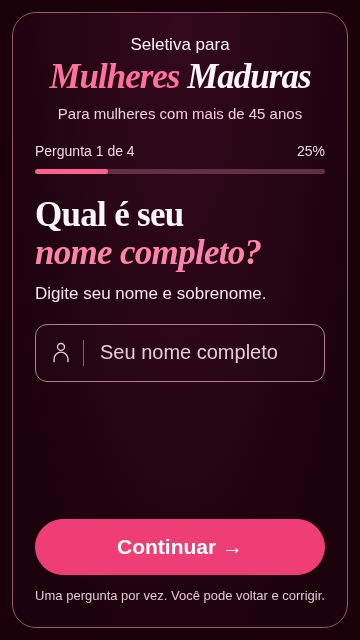
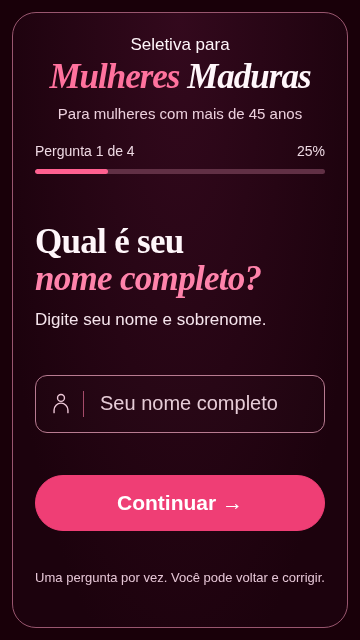
Publicar distribuição equilibrada da versão em tela única
Usuário solicitou link atualizado para testar. Preserva a página principal.

diff --git a/tela-unica/index.html b/tela-unica/index.html
@@ -1,7 +1,8 @@
 <!DOCTYPE html>
 <html lang="pt-BR"><head><meta charset="UTF-8"><meta name="viewport" content="width=device-width,initial-scale=1"><meta name="description" content="Seletiva presencial em Piracicaba para mulheres acima de 45 anos que sonham em ser modelos. Inscreva-se respondendo a 4 perguntas simples."><title>Inscrição em tela única | Seletiva de mulheres maduras</title>
 <style>
-*{box-sizing:border-box}html{height:100%;overflow:hidden}body{position:fixed;inset:0;margin:0;overflow:hidden;background:#190009;color:#fff6fa;font:18px/1.4 Arial,sans-serif}main{height:100vh;height:100svh;height:var(--app-height,100svh);padding:12px;padding-top:max(12px,env(safe-area-inset-top));padding-bottom:max(12px,env(safe-area-inset-bottom));display:flex;justify-content:center;overflow:hidden}.quiz-shell{display:flex;flex-direction:column;width:100%;max-width:480px;min-height:0;height:100%;padding:22px;background:radial-gradient(ellipse at 50% 0%,#33091d,#1c020d 80%);border:1px solid #99566f;border-radius:24px}.quiz-header{text-align:center;flex:none;padding-bottom:18px}.quiz-header h1{font-size:17px;line-height:1.2;font-weight:400;margin:0}.quiz-header h1 strong{display:block;font:italic 700 35px/1.1 Georgia,'Times New Roman',serif;margin-top:3px;letter-spacing:-1px}.quiz-header h1 em{color:#ff729e;font-style:inherit}.audience{font-size:15px;color:#ecd0dd;margin:6px 0 0}#content{display:flex;flex-direction:column;flex:1;min-height:0}.progress-text{display:flex;justify-content:space-between;font-size:14px;gap:8px;color:#eed9e3;flex:none}.track{height:5px;min-height:5px;background:#613045;border-radius:8px;margin:8px 0 22px;overflow:hidden}.fill{height:100%;background:#ff6090;border-radius:8px}form{display:flex;flex-direction:column;flex:1;min-height:0;animation:question-in 160ms ease-out}h2{font:700 35px/1.06 Georgia,'Times New Roman',serif;letter-spacing:-.7px;margin:0 0 12px;flex:none}h2 em{font-style:italic;color:#ff83ab}.hint{font-size:17px;line-height:1.35;margin:0 0 18px;color:#f6e5ed;flex:none}#fields{flex:none}.input-wrap{position:relative}.input-icon{position:absolute;top:50%;left:15px;transform:translateY(-50%);padding-right:11px;border-right:1px solid #a64b6a;display:flex;align-items:center;pointer-events:none;color:#edc7d7}.input-icon svg{width:22px;height:26px}input{width:100%;min-width:0;min-height:58px;border:1.5px solid #b87b91;border-radius:12px;color:#fff9fb;background:#ffffff03;font:20px Arial,sans-serif;padding:15px 12px 15px 64px}input::placeholder{color:#e6ccd7;opacity:1}input:focus,button:focus-visible{outline:3px solid #ff8eb2;outline-offset:3px}input[aria-invalid=true]{border-color:#ff9fbb}button{font:700 21px/1.25 Arial,sans-serif;cursor:pointer;touch-action:manipulation;padding:12px 15px;min-height:56px;white-space:normal;overflow-wrap:break-word}button:disabled{opacity:.7;cursor:wait}.actions{display:flex;flex-direction:column;gap:7px;flex:none;margin-top:auto;padding-top:18px}.primary{background:#ef3e75;color:white;border:1px solid #ef3e75;border-radius:32px;width:100%;order:-1}.primary:hover,.choice-yes:hover{background:#d82d63}.back{align-self:center;min-height:40px;font-size:16px;background:transparent;border:0;color:#f1d3e0;padding:8px 20px}.choice{width:100%;display:block;border:1.5px solid #b87b91;border-radius:16px;margin:0 0 10px;background:transparent;color:#fff9fb;font-size:18px;min-height:56px}.choice-yes{background:#ef3e75;color:white;border-color:#ef3e75;font-size:20px;min-height:62px}.privacy{font-size:13px;line-height:1.3;color:#e9c9d9;margin:9px 0 0;flex:none}.reassure{flex:none;text-align:center;font-size:13px;line-height:1.35;color:#e6c6d6;margin:12px 0 0}.error{font-size:15px;line-height:1.25;color:#ffe7ef;background:#4c172c;border:1px solid #ff9fbb;border-radius:9px;padding:8px;margin:10px 0 0;flex:none}.error:empty{display:none}.success-icon{color:#ff83ab;font-size:42px;margin:15px 0}.quiz-shell[data-step="3"] h2{font-size:28px;line-height:1.15}.quiz-shell[data-step="3"] .hint{margin-bottom:14px}.quiz-shell[data-step="3"] .quiz-header{display:none}.quiz-shell[data-step="3"] .reassure{display:none}.quiz-shell[data-step="3"] .actions{padding-top:0;margin-top:auto}.quiz-shell:not([data-step="0"]) .quiz-header{display:none}.has-error .reassure{display:none}.keyboard-open .quiz-header,.keyboard-open .reassure,.keyboard-open .hint,.keyboard-open .progress-text,.keyboard-open .track{display:none}.keyboard-open .quiz-shell{padding:14px}.keyboard-open h2{font-size:27px;margin-bottom:10px}.keyboard-open .actions{padding-top:10px;gap:3px}.keyboard-open input{min-height:48px;padding-top:11px;padding-bottom:11px}.keyboard-open .primary{min-height:48px;font-size:20px;padding:9px 12px}.keyboard-open .back{min-height:32px;padding:4px 15px}.keyboard-open .error{font-size:14px;margin-top:6px;padding:6px}.primary:active,.choice:active{background:#d82d63}@keyframes question-in{from{opacity:.4;transform:translateY(5px)}to{opacity:1;transform:translateY(0)}}@media(prefers-reduced-motion:reduce){form{animation:none}}@media(max-height:620px){main{padding:8px}.quiz-shell{padding:18px}.quiz-header{padding-bottom:12px}.quiz-header h1 strong{font-size:31px}.track{margin-bottom:16px}h2{font-size:32px}.hint{margin-bottom:14px;font-size:16px}.reassure{margin-top:8px}.actions{padding-top:13px}.quiz-shell[data-step="3"] h2{font-size:26px}}@media(max-width:350px){.quiz-shell{padding:17px}.quiz-header h1 strong{font-size:30px}.audience{font-size:14px}h2{font-size:31px}input{font-size:18px}.quiz-shell[data-step="3"] h2{font-size:25px}}
+*{box-sizing:border-box}html{height:100%;overflow:hidden}body{position:fixed;inset:0;margin:0;overflow:hidden;background:#190009;color:#fff6fa;font:18px/1.4 Arial,sans-serif}main{height:100vh;height:100svh;height:var(--app-height,100svh);padding:12px;padding-top:max(12px,env(safe-area-inset-top));padding-bottom:max(12px,env(safe-area-inset-bottom));display:flex;justify-content:center;overflow:hidden}.quiz-shell{display:flex;flex-direction:column;width:100%;max-width:480px;min-height:0;height:100%;padding:22px;background:radial-gradient(ellipse at 50% 0%,#33091d,#1c020d 80%);border:1px solid #99566f;border-radius:24px}.quiz-header{text-align:center;flex:none;padding-bottom:18px}.quiz-header h1{font-size:17px;line-height:1.2;font-weight:400;margin:0}.quiz-header h1 strong{display:block;font:italic 700 35px/1.1 Georgia,'Times New Roman',serif;margin-top:3px;letter-spacing:-1px}.quiz-header h1 em{color:#ff729e;font-style:inherit}.audience{font-size:15px;color:#ecd0dd;margin:6px 0 0}#content{display:flex;flex-direction:column;flex:1;min-height:0}.progress-text{display:flex;justify-content:space-between;font-size:14px;gap:8px;color:#eed9e3;flex:none}.track{height:5px;min-height:5px;background:#613045;border-radius:8px;margin:8px 0 22px;overflow:hidden}.fill{height:100%;background:#ff6090;border-radius:8px}form{display:flex;flex-direction:column;justify-content:space-evenly;gap:16px;flex:1;min-height:0;animation:question-in 160ms ease-out}h2{font:700 35px/1.06 Georgia,'Times New Roman',serif;letter-spacing:-.7px;margin:0 0 12px;flex:none}h2 em{font-style:italic;color:#ff83ab}.hint{font-size:17px;line-height:1.35;margin:0 0 18px;color:#f6e5ed;flex:none}#fields{flex:none}.input-wrap{position:relative}.input-icon{position:absolute;top:50%;left:15px;transform:translateY(-50%);padding-right:11px;border-right:1px solid #a64b6a;display:flex;align-items:center;pointer-events:none;color:#edc7d7}.input-icon svg{width:22px;height:26px}input{width:100%;min-width:0;min-height:58px;border:1.5px solid #b87b91;border-radius:12px;color:#fff9fb;background:#ffffff03;font:20px Arial,sans-serif;padding:15px 12px 15px 64px}input::placeholder{color:#e6ccd7;opacity:1}input:focus,button:focus-visible{outline:3px solid #ff8eb2;outline-offset:3px}input[aria-invalid=true]{border-color:#ff9fbb}button{font:700 21px/1.25 Arial,sans-serif;cursor:pointer;touch-action:manipulation;padding:12px 15px;min-height:56px;white-space:normal;overflow-wrap:break-word}button:disabled{opacity:.7;cursor:wait}.actions{display:flex;flex-direction:column;gap:7px;flex:none;margin-top:0;padding-top:0}.primary{background:#ef3e75;color:white;border:1px solid #ef3e75;border-radius:32px;width:100%;order:-1}.primary:hover,.choice-yes:hover{background:#d82d63}.back{align-self:center;min-height:40px;font-size:16px;background:transparent;border:0;color:#f1d3e0;padding:8px 20px}.choice{width:100%;display:block;border:1.5px solid #b87b91;border-radius:16px;margin:0 0 10px;background:transparent;color:#fff9fb;font-size:18px;min-height:56px}.choice-yes{background:#ef3e75;color:white;border-color:#ef3e75;font-size:20px;min-height:62px}.privacy{font-size:13px;line-height:1.3;color:#e9c9d9;margin:9px 0 0;flex:none}.reassure{flex:none;text-align:center;font-size:13px;line-height:1.35;color:#e6c6d6;margin:12px 0 0}.error{font-size:15px;line-height:1.25;color:#ffe7ef;background:#4c172c;border:1px solid #ff9fbb;border-radius:9px;padding:8px;margin:10px 0 0;flex:none}.error:empty{display:none}.success-icon{color:#ff83ab;font-size:42px;margin:15px 0}.quiz-shell[data-step="3"] h2{font-size:28px;line-height:1.15}.quiz-shell[data-step="3"] .hint{margin-bottom:14px}.quiz-shell[data-step="3"] .quiz-header{display:none}.quiz-shell[data-step="3"] .reassure{display:none}.quiz-shell[data-step="3"] .actions{padding-top:0;margin-top:0}.quiz-shell:not([data-step="0"]) .quiz-header{display:none}.has-error .reassure{display:none}.keyboard-open .quiz-header,.keyboard-open .reassure,.keyboard-open .hint,.keyboard-open .progress-text,.keyboard-open .track{display:none}.keyboard-open .quiz-shell{padding:14px}.keyboard-open h2{font-size:27px;margin-bottom:10px}.keyboard-open .actions{padding-top:10px;gap:3px}.keyboard-open input{min-height:48px;padding-top:11px;padding-bottom:11px}.keyboard-open .primary{min-height:48px;font-size:20px;padding:9px 12px}.keyboard-open .back{min-height:32px;padding:4px 15px}.keyboard-open .error{font-size:14px;margin-top:6px;padding:6px}.primary:active,.choice:active{background:#d82d63}@keyframes question-in{from{opacity:.4;transform:translateY(5px)}to{opacity:1;transform:translateY(0)}}@media(prefers-reduced-motion:reduce){form{animation:none}}@media(max-height:620px){main{padding:8px}.quiz-shell{padding:18px}.quiz-header{padding-bottom:12px}.quiz-header h1 strong{font-size:31px}.track{margin-bottom:16px}h2{font-size:32px}.hint{margin-bottom:14px;font-size:16px}.reassure{margin-top:8px}.actions{padding-top:13px}.quiz-shell[data-step="3"] h2{font-size:26px}}@media(max-width:350px){.quiz-shell{padding:17px}.quiz-header h1 strong{font-size:30px}.audience{font-size:14px}h2{font-size:31px}input{font-size:18px}.quiz-shell[data-step="3"] h2{font-size:25px}}
+.question-block{flex:none}.question-block .hint{margin-bottom:0}.choice:last-child{margin-bottom:0}.has-error .hint{display:none}.keyboard-open form{justify-content:space-between;gap:6px}.keyboard-open .actions{padding-top:0}.reassure{padding-bottom:18px}@media(max-height:620px){form{gap:8px}.actions{padding-top:0}.reassure{padding-bottom:10px}}
 </style></head><body>
 <main><section class="quiz-shell" data-step="0" aria-label="Inscrição na seletiva"><header class="quiz-header"><h1>Seletiva para<strong><em>Mulheres</em> Maduras</strong></h1><p class="audience">Para mulheres com mais de 45 anos</p></header><div id="content"></div><p class="reassure">Uma pergunta por vez. Você pode voltar e corrigir.</p></section></main>
 <script>
@@ -30,11 +31,11 @@ const normalizeAge = function normalizeAge(value) {
 const values={name:'',age:'',phone:'',attendance:null};let step=0,busy=false,previousProgress=0;const content=document.getElementById('content');
 const questions=['Qual é seu nome completo?','Qual é sua idade?','Qual é seu celular com DDD?','Você consegue comparecer à seletiva presencial em Piracicaba?'];
 const hints=['Digite seu nome e sobrenome.','Digite sua idade. Pode escrever 52 ou 52 anos.','Digite o DDD e o número do seu celular.','Toque na sua resposta para concluir a inscrição.'];
-const questionMarkup=['Qual é seu<br><em>nome completo?</em>','Qual é sua<br><em>idade?</em>','Qual é seu<br><em>celular com DDD?</em>','Você consegue <em>comparecer</em> à seletiva presencial em Piracicaba?'];
+const questionMarkup=['Qual é seu<br><em>nome completo?</em>','Qual é sua<br><em>idade?</em>','Qual é seu<br><em>celular com DDD?</em>','Você consegue <em>ir à seletiva</em> em Piracicaba?'];
 const fieldIcons=['<circle cx="12" cy="8" r="4"/><path d="M4 25v-3a8 8 0 0 1 16 0v3"/>','<rect x="3" y="6" width="18" height="20" rx="3"/><path d="M7 2v8M17 2v8M3 13h18M8 18h2M14 18h2"/>','<rect x="5" y="2" width="14" height="25" rx="3"/><path d="M10 23h4"/>'];
 function save(){const field=document.getElementById('answer');if(step<3&&field) values[['name','age','phone'][step]]=field.value;}
 function showError(message){document.body.classList.add('has-error');const el=document.getElementById('error');el.textContent=message;document.getElementById('answer')?.setAttribute('aria-invalid','true');}
-function render(focus=false){document.body.classList.remove('has-error');document.querySelector('.quiz-shell').dataset.step=String(step);if(!trackedSteps.has(step)){trackedSteps.add(step);trackMeta('FormStepViewed',{step:step+1});}content.innerHTML='<div class="progress-text"><span>Pergunta '+(step+1)+' de 4</span><span>'+Math.round((step+1)/4*100)+'%</span></div><div class="track" aria-hidden="true"><div class="fill" style="--previous-progress:'+previousProgress+'%;width:'+((step+1)*25)+'%"></div></div><form novalidate><h2 id="question" tabindex="-1">'+questionMarkup[step]+'</h2><p class="hint" id="hint">'+hints[step]+'</p><div id="fields"></div><p id="error" class="error" role="alert"></p><div class="actions">'+(step?'<button type="button" class="back">← Voltar</button>':'')+(step<3?'<button type="submit" class="primary">Continuar →</button>':'')+'</div>'+(step===3?'<p class="privacy">Ao tocar em uma resposta, você conclui sua inscrição e autoriza o uso do seu nome, idade e celular para organizar esta seletiva e entrar em contato sobre sua inscrição.</p>':'')+'</form>';
+function render(focus=false){document.body.classList.remove('has-error');document.querySelector('.quiz-shell').dataset.step=String(step);if(!trackedSteps.has(step)){trackedSteps.add(step);trackMeta('FormStepViewed',{step:step+1});}content.innerHTML='<div class="progress-text"><span>Pergunta '+(step+1)+' de 4</span><span>'+Math.round((step+1)/4*100)+'%</span></div><div class="track" aria-hidden="true"><div class="fill" style="--previous-progress:'+previousProgress+'%;width:'+((step+1)*25)+'%"></div></div><form novalidate><div class="question-block"><h2 id="question" tabindex="-1">'+questionMarkup[step]+'</h2><p class="hint" id="hint">'+hints[step]+'</p></div><div id="fields"></div><p id="error" class="error" role="alert"></p><div class="actions">'+(step?'<button type="button" class="back">← Voltar</button>':'')+(step<3?'<button type="submit" class="primary">Continuar →</button>':'')+'</div>'+(step===3?'<p class="privacy">Ao responder, você conclui a inscrição e autoriza o uso dos seus dados para organizar a seletiva e entrar em contato.</p>':'')+'</form>';
 previousProgress=(step+1)*25;const fields=document.getElementById('fields');if(step<3){const input=document.createElement('input');input.id='answer';input.setAttribute('aria-labelledby','question');input.setAttribute('aria-describedby','hint error');input.required=true;input.type='text';input.inputMode=step===2?'tel':'text';input.autocomplete=step===0?'name':step===2?'tel-national':'off';input.maxLength=step===0?150:step===1?30:16;input.placeholder=['Seu nome completo','Sua idade','(19) 99999-9999'][step];input.value=values[['name','age','phone'][step]];const wrap=document.createElement('div');wrap.className='input-wrap';const icon=document.createElement('span');icon.className='input-icon';icon.setAttribute('aria-hidden','true');icon.innerHTML='<svg viewBox="0 0 24 30" fill="none" stroke="currentColor" stroke-width="1.6" stroke-linecap="round" stroke-linejoin="round">'+fieldIcons[step]+'</svg>';wrap.append(icon,input);fields.append(wrap);input.addEventListener('input',()=>{if(!formStarted){formStarted=true;trackMeta('FormStarted');}if(step===2){let d=input.value.replace(/\D/g,'').slice(0,11);input.value=d.length>2?'('+d.slice(0,2)+') '+d.slice(2,7)+(d.length>7?'-'+d.slice(7):''):d;}save();});}else{fields.setAttribute('role','group');fields.setAttribute('aria-labelledby','question');for(const [value,text] of [[true,'Sim, consigo comparecer'],[false,'Não consigo comparecer']]){const button=document.createElement('button');button.type='button';button.className=value?'choice choice-yes':'choice choice-no';button.textContent=text;button.addEventListener('click',()=>{if(busy)return;values.attendance=value;submit({preventDefault(){}},button);});fields.append(button);}}
 content.querySelector('.back')?.addEventListener('click',()=>{save();step--;render(true)});content.querySelector('form').addEventListener('submit',submit);if(focus)document.getElementById('question').focus({preventScroll:true});}
 async function submit(event,selectedButton){event.preventDefault();if(busy)return;save();let error='';if(step===0&&(values.name.trim().split(/\s+/).length<2||!/^[\p{L}\p{M} '\-]+$/u.test(values.name.trim())))error='Digite seu nome completo, com nome e sobrenome.';if(step===1&&(!Number.isInteger(normalizeAge(values.age))||normalizeAge(values.age)<1||normalizeAge(values.age)>120))error='Digite sua idade. Pode escrever 52 ou 52 anos.';if(step===2&&!/^\d{2}9\d{8}$/.test(values.phone.replace(/\D/g,'')))error='Digite seu celular com DDD: 2 números do DDD e 9 do celular.';if(step===3&&values.attendance===null)error='Escolha Sim ou Não para continuar.';if(error){showError(error);return;}if(step<3){trackCompletion(step+1);step++;render(true);return;}busy=true;content.querySelectorAll('button,input').forEach(el=>el.disabled=true);const btn=selectedButton||content.querySelector('.choice-yes');const originalText=btn.textContent;btn.textContent='Enviando sua inscrição…';try{const response=await fetch('/api/inscricao',{method:'POST',headers:{'Content-Type':'application/json'},body:JSON.stringify(values)});const result=await response.json();if(!response.ok)throw Error(result.error||'Não foi possível concluir. Tente novamente.');trackCompletion(4);trackMeta('Lead',{},result.eventId);content.innerHTML='<div class="success-icon" aria-hidden="true">✓</div><h2 tabindex="-1">Inscrição concluída!</h2><p>Suas respostas foram recebidas.</p><p>Obrigada por se inscrever na seletiva em Piracicaba.</p><p class="hint">Você já pode fechar esta página.</p>';content.querySelector('h2').focus();document.querySelector('.reassure').hidden=true;Object.keys(values).forEach(key=>values[key]=null);}catch(e){showError(e instanceof TypeError?'Não conseguimos conectar. Confira sua internet e toque na resposta para tentar novamente. Suas respostas continuam aqui.':(e.message||'Confira sua conexão e tente novamente.'));content.querySelectorAll('button,input').forEach(el=>el.disabled=false);btn.textContent=originalText;}finally{busy=false;}}

diff --git a/tela-unica/README.md b/tela-unica/README.md
@@ -1,6 +1,6 @@
 # Alternativa em tela única
 
-Versão experimental para `/tela-unica/`, sem alterar a página principal. Ainda não publicada.
+Versão experimental em `/tela-unica/`, sem alterar a página principal. A versão inicial já foi publicada; a nova distribuição descrita abaixo aguarda autorização de deploy.
 
 O formulário usa um painel da altura da área visível, com topo compacto e ação no rodapé do painel. Uma pergunta por vez; idade obrigatória; aceita 52 anos; telefone com DDD; Sim ou Não conclui o envio. A cidade permanece na última pergunta. Usa a mesma API `/api/inscricao` e o mesmo Pixel da página principal.
 
@@ -9,3 +9,7 @@ O teclado é tratado pelo Visual Viewport quando disponível. Com a área reduzi
 Validação: navegador em 320×480, 320×568, 360×640 e 390×844, verificando posição da pergunta, campo e botões dentro da tela, erros de obrigatoriedade e navegação. Área visível de 300 px simulou o teclado; ainda requer teste com teclado real em Android/iOS. Envio e eventos de sucesso foram simulados, sem gravar cadastros nem enviar Leads à Meta.
 
 Só fazer deploy após pedido explícito do usuário. Manter [skip netlify] nos commits enquanto isso.
+
+## Distribuição vertical
+
+Pergunta e instrução formam um bloco, seguido pelo campo e pelas ações, com o espaço livre distribuído igualmente entre os três. O botão deixa de ficar preso ao rodapé com uma área vazia desproporcional. Mensagens de erro e área de teclado reduzida recebem espaçamento compacto. A nota de apoio reserva espaço inferior para não ficar colada ao rodapé.
